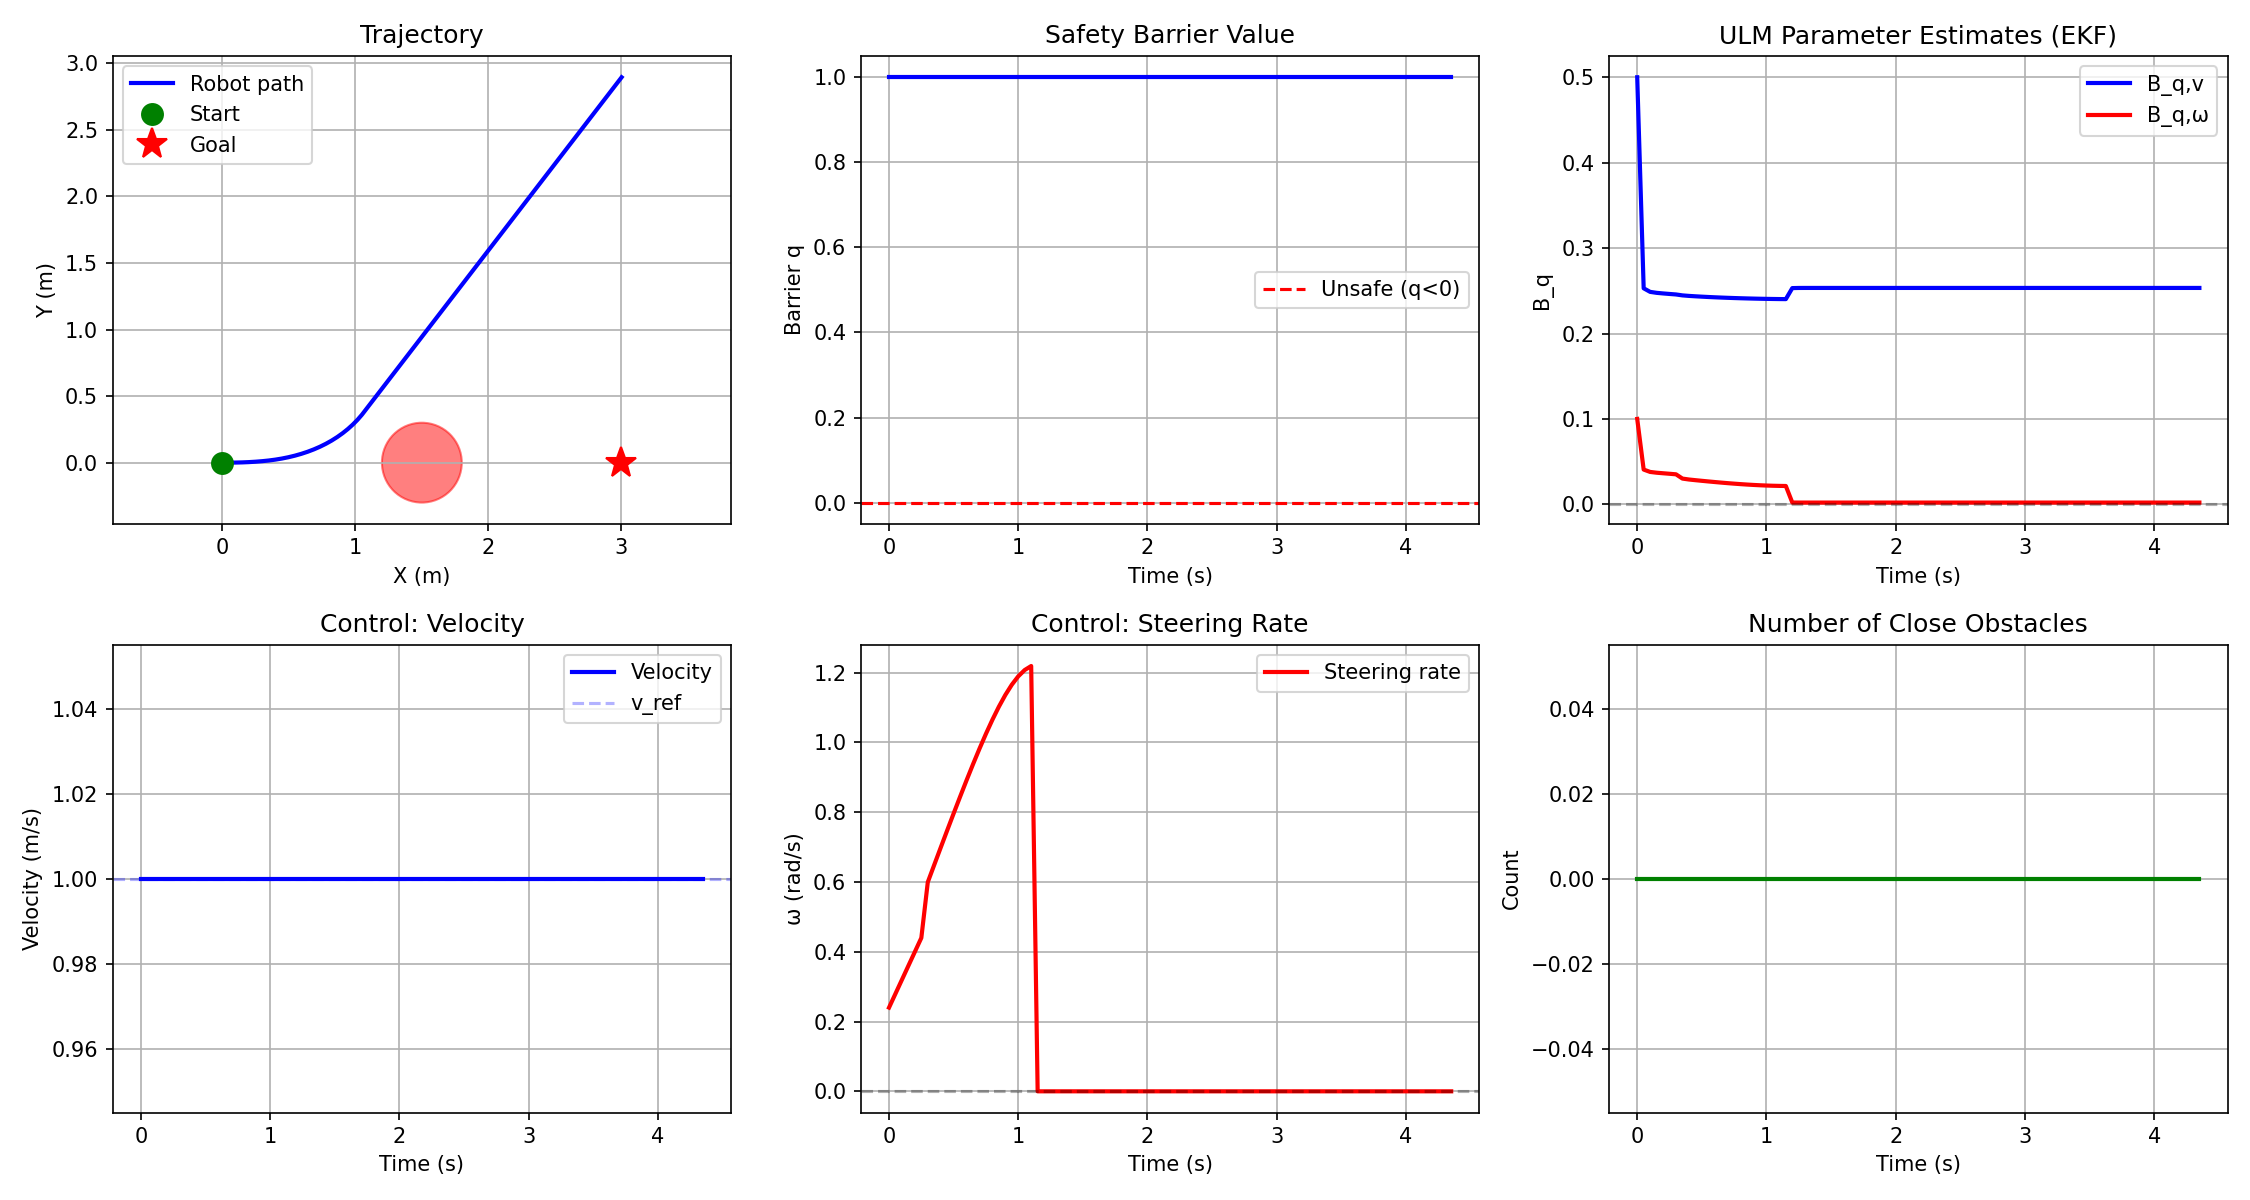
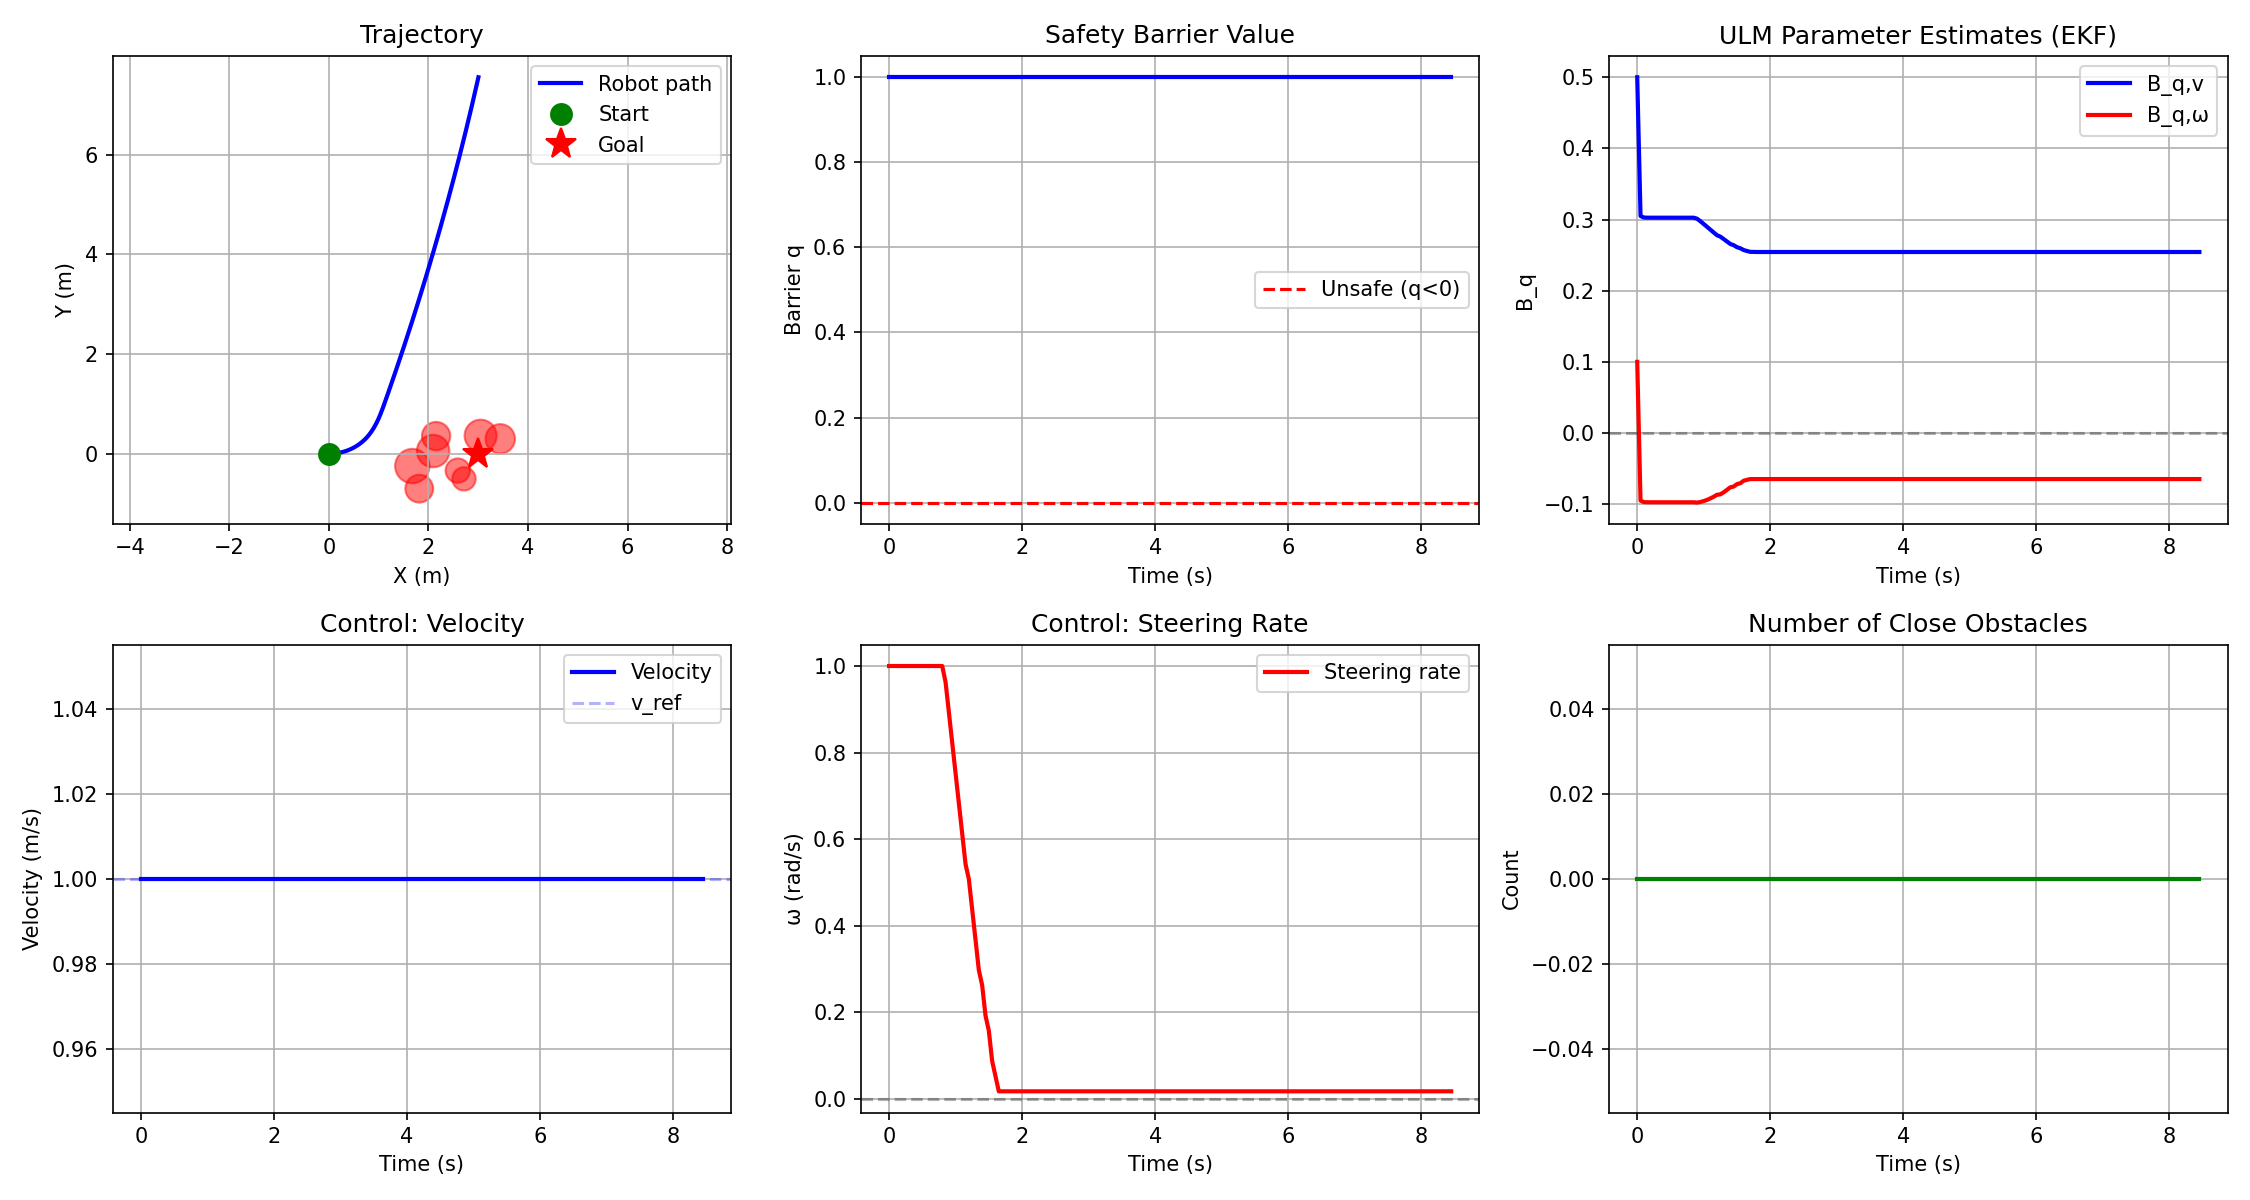
gap

diff --git a/simulate_cbf_cpu.py b/simulate_cbf_cpu.py
@@ -313,11 +313,30 @@ class F1TenthSim:
 
 
 class ObstacleField:
-    def __init__(self):
-        # Single obstacle in center of path
-        self.obstacles = [
-            [1.5, 0.0, 0.3],  # Center obstacle at x=1.5m
-        ]
+    def __init__(self, n_obstacles=5, seed=None):
+        """
+        Generate random obstacles along the path
+
+        Args:
+            n_obstacles: Number of random obstacles
+            seed: Random seed for reproducibility (None for random)
+        """
+        if seed is not None:
+            np.random.seed(seed)
+
+        self.obstacles = []
+
+        # Generate random obstacles scattered along the path
+        # Path is roughly x: [0, 4], y: [-1, 1]
+        for i in range(n_obstacles):
+            x = np.random.uniform(0.5, 3.5)  # Along path
+            y = np.random.uniform(-0.8, 0.8)  # Lateral spread
+            r = np.random.uniform(0.2, 0.4)  # Radius variation
+            self.obstacles.append([x, y, r])
+
+        print(f"Generated {n_obstacles} random obstacles:")
+        for i, (x, y, r) in enumerate(self.obstacles):
+            print(f"  Obstacle {i+1}: x={x:.2f}m, y={y:.2f}m, r={r:.2f}m")
 
     def get_lidar_scan(self, robot_x, robot_y, robot_theta, n_rays=360, max_range=5.0):
         angles = np.linspace(-np.pi, np.pi, n_rays)
@@ -340,10 +359,10 @@ class ObstacleField:
 
 
 class CBFSimulator:
-    def __init__(self):
+    def __init__(self, n_obstacles=5, seed=42):
         self.dt = 0.05
         self.robot = F1TenthSim(x=0.0, y=0.0, theta=0.0)
-        self.obstacles = ObstacleField()
+        self.obstacles = ObstacleField(n_obstacles=n_obstacles, seed=seed)
         self.v_max = 2.0
         self.v_min = 0.0
         self.omega_max = 10.0
@@ -374,54 +393,67 @@ class CBFSimulator:
 
     def tangent_controller(self, x, y, theta, goal_x=3.0, goal_y=0.0):
         """
-        Robot-frame tangent controller: steers away from obstacles while driving forward.
-        Simulates the hardware controller that works in robot frame (no global goal tracking).
+        Gap-following controller: finds largest gap in LiDAR and steers toward it.
+        Works in robot frame (no global goal tracking).
 
-        Note: Still takes x,y,theta for simulation purposes (obstacle detection),
+        Note: Still takes x,y,theta for simulation purposes (get lidar scan),
         but controller logic is robot-frame only.
 
         Returns: [v_ref, omega_ref]
         """
-        # Default: drive straight forward in robot frame
+        # Default: drive straight forward
         v_ref = 1.0
         omega_ref = 0.0
 
-        # Find closest obstacle in front sector (robot frame)
-        min_dist = float('inf')
-        closest_angle_robot_frame = 0.0
+        # Get simulated LiDAR scan in robot frame
+        ranges, angles = self.obstacles.get_lidar_scan(x, y, theta)
 
-        for obs_x, obs_y, obs_r in self.obstacles.obstacles:
-            # Transform obstacle to robot frame
-            dx_world = obs_x - x
-            dy_world = obs_y - y
+        # Only consider front sector (-90° to +90°)
+        front_mask = np.abs(angles) < np.pi/2
+        front_ranges = ranges[front_mask]
+        front_angles = angles[front_mask]
 
-            # Rotate to robot frame (robot at origin, facing +x)
-            dx_robot = dx_world * np.cos(-theta) - dy_world * np.sin(-theta)
-            dy_robot = dx_world * np.sin(-theta) + dy_world * np.cos(-theta)
+        if len(front_ranges) == 0:
+            return [v_ref, omega_ref]
 
-            dist_to_surface = np.sqrt(dx_robot**2 + dy_robot**2) - obs_r
-            angle_in_robot_frame = np.arctan2(dy_robot, dx_robot)
+        # Find gaps (continuous sectors with range > threshold)
+        gap_threshold = 1.5  # Minimum distance to be considered "free"
+        is_free = front_ranges > gap_threshold
 
-            # Only consider obstacles in front sector (-90° to +90°)
-            if abs(angle_in_robot_frame) < np.pi/2:
-                if 0.1 < dist_to_surface < 1.5:
-                    if dist_to_surface < min_dist:
-                        min_dist = dist_to_surface
-                        closest_angle_robot_frame = angle_in_robot_frame
+        # Find largest gap
+        max_gap_size = 0
+        max_gap_center_angle = 0.0
+        current_gap_size = 0
+        current_gap_start_idx = 0
 
-        # If obstacle detected, steer away from it
-        if min_dist < 1.5:
-            # Distance-based scaling: closer = more steering
-            dist_factor = max(0.0, 1.0 - (min_dist / 1.5))
-
-            # Determine steering direction in robot frame
-            # If obstacle at positive angle (left side), steer right (negative omega)
-            # If obstacle at negative angle (right side), steer left (positive omega)
-            if abs(closest_angle_robot_frame) < 0.1:  # Straight ahead
-                omega_ref = dist_factor * 1.2  # Steer left moderately
+        for i in range(len(is_free)):
+            if is_free[i]:
+                if current_gap_size == 0:
+                    current_gap_start_idx = i
+                current_gap_size += 1
             else:
-                # Steer away: opposite sign of obstacle angle
-                omega_ref = -np.sign(closest_angle_robot_frame) * dist_factor * 1.5
+                if current_gap_size > max_gap_size:
+                    max_gap_size = current_gap_size
+                    # Gap center angle
+                    gap_center_idx = current_gap_start_idx + current_gap_size // 2
+                    max_gap_center_angle = float(front_angles[gap_center_idx])
+                current_gap_size = 0
+
+        # Check last gap
+        if current_gap_size > max_gap_size:
+            max_gap_size = current_gap_size
+            gap_center_idx = current_gap_start_idx + current_gap_size // 2
+            max_gap_center_angle = float(front_angles[gap_center_idx])
+
+        # If no gap found, find direction with maximum range
+        if max_gap_size == 0:
+            max_range_idx = int(np.argmax(front_ranges))
+            max_gap_center_angle = float(front_angles[max_range_idx])
+
+        # Steer toward gap center with proportional control
+        K_p = 2.0
+        omega_ref = float(K_p * max_gap_center_angle)
+        omega_ref = np.clip(omega_ref, -1.0, 1.0)
 
         return [v_ref, omega_ref]
 
@@ -574,5 +606,8 @@ class CBFSimulator:
 
 
 if __name__ == '__main__':
-    sim = CBFSimulator()
-    sim.run(max_steps=200)
+    # Create simulator with random obstacles
+    # n_obstacles: number of obstacles (default 5)
+    # seed: random seed for reproducibility (None for different obstacles each run)
+    sim = CBFSimulator(n_obstacles=8, seed=123)  # More obstacles for harder test
+    sim.run(max_steps=400)

diff --git a/auto_drive/cbf_Node_refactored.py b/auto_drive/cbf_Node_refactored.py
@@ -360,7 +360,7 @@ class ControllerNode(Node):
 
     def tangent_controller(self):
         """
-        Robot-frame tangent controller: steers away from obstacles while driving forward.
+        Gap-following controller: finds largest gap in LiDAR and steers toward it.
         Works in robot frame (no global coordinates needed).
         Returns: [v_ref, omega_ref]
         """
@@ -368,39 +368,59 @@ class ControllerNode(Node):
         v_ref = 1.0
         omega_ref = 0.0
 
-        # Find closest obstacle in front sector (-90° to +90°)
         if not hasattr(self, 'last_ranges'):
             return [v_ref, omega_ref]
 
         ranges = self.last_ranges
         angles = self.last_angles
 
-        min_dist = float('inf')
-        closest_angle = 0.0
+        # Only consider front sector (-90° to +90°)
+        front_mask = cp.abs(angles) < cp.pi/2
+        front_ranges = ranges[front_mask]
+        front_angles = angles[front_mask]
 
-        # Only look in front sector
-        for i, r in enumerate(ranges):
-            angle = float(angles[i])
-            if abs(angle) < cp.pi/2:  # Front 180° sector
-                if 0.1 < r < 1.5:  # Obstacle within detection range
-                    if r < min_dist:
-                        min_dist = r
-                        closest_angle = angle
+        if len(front_ranges) == 0:
+            return [v_ref, omega_ref]
 
-        # If obstacle detected, steer away from it
-        if min_dist < 1.5:
-            # Distance-based scaling: closer = more steering
-            dist_factor = max(0.0, 1.0 - (min_dist / 1.5))
+        # Find gaps (continuous sectors with range > threshold)
+        gap_threshold = 1.5  # Minimum distance to be considered "free"
+        is_free = front_ranges > gap_threshold
 
-            # Determine steering direction
-            # If obstacle at positive angle (left side), steer right (negative omega)
-            # If obstacle at negative angle (right side), steer left (positive omega)
-            # If obstacle straight ahead, pick a side (prefer left/positive)
-            if abs(closest_angle) < 0.1:  # Straight ahead
-                omega_ref = dist_factor * 1.2  # Steer left moderately
+        # Find largest gap
+        max_gap_size = 0
+        max_gap_center_angle = 0.0
+        current_gap_size = 0
+        current_gap_start_idx = 0
+
+        for i in range(len(is_free)):
+            if is_free[i]:
+                if current_gap_size == 0:
+                    current_gap_start_idx = i
+                current_gap_size += 1
             else:
-                # Steer away: opposite sign of obstacle angle
-                omega_ref = -float(cp.sign(closest_angle)) * dist_factor * 1.5
+                if current_gap_size > max_gap_size:
+                    max_gap_size = current_gap_size
+                    # Gap center angle
+                    gap_center_idx = current_gap_start_idx + current_gap_size // 2
+                    max_gap_center_angle = float(front_angles[gap_center_idx])
+                current_gap_size = 0
+
+        # Check last gap
+        if current_gap_size > max_gap_size:
+            max_gap_size = current_gap_size
+            gap_center_idx = current_gap_start_idx + current_gap_size // 2
+            max_gap_center_angle = float(front_angles[gap_center_idx])
+
+        # If no gap found, find direction with maximum range
+        if max_gap_size == 0:
+            max_range_idx = int(cp.argmax(front_ranges))
+            max_gap_center_angle = float(front_angles[max_range_idx])
+
+        # Steer toward gap center with proportional control
+        # Prefer forward-facing gaps (weight by cos)
+        K_p = 2.0
+        omega_ref = float(K_p * max_gap_center_angle)
+        omega_ref = float(cp.clip(omega_ref, -1.0, 1.0))
 
         return [v_ref, omega_ref]
 
